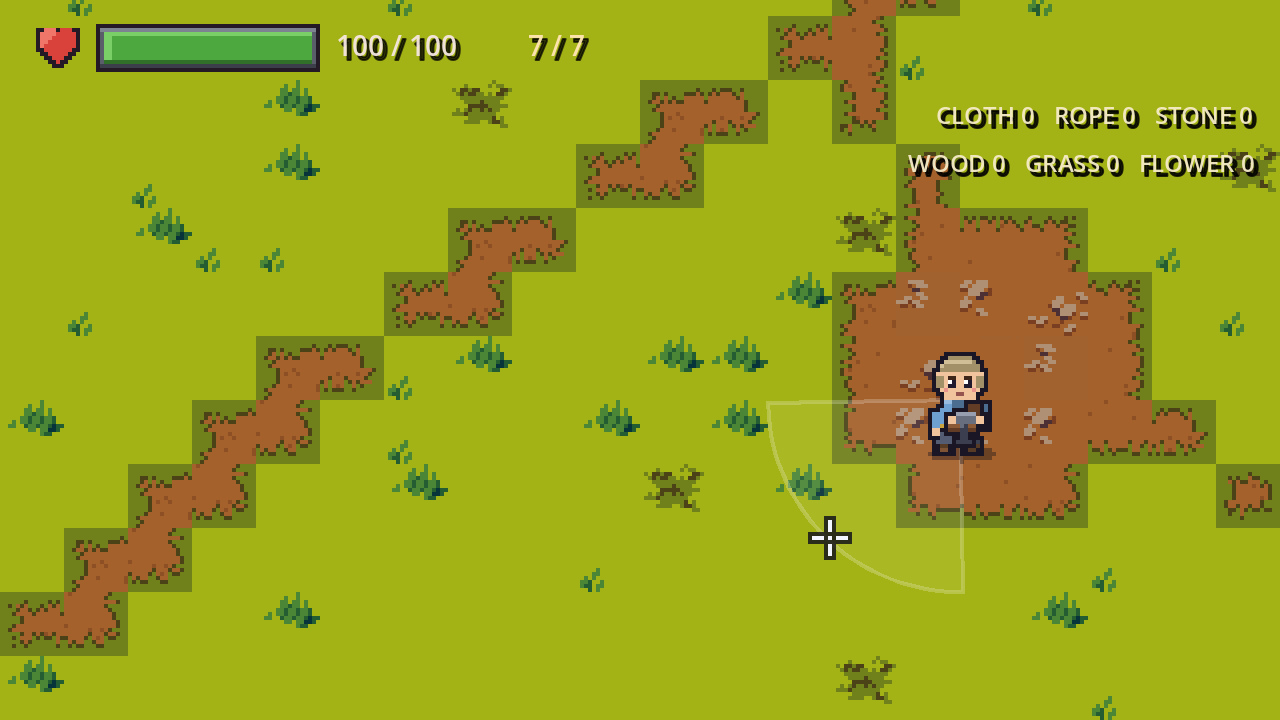
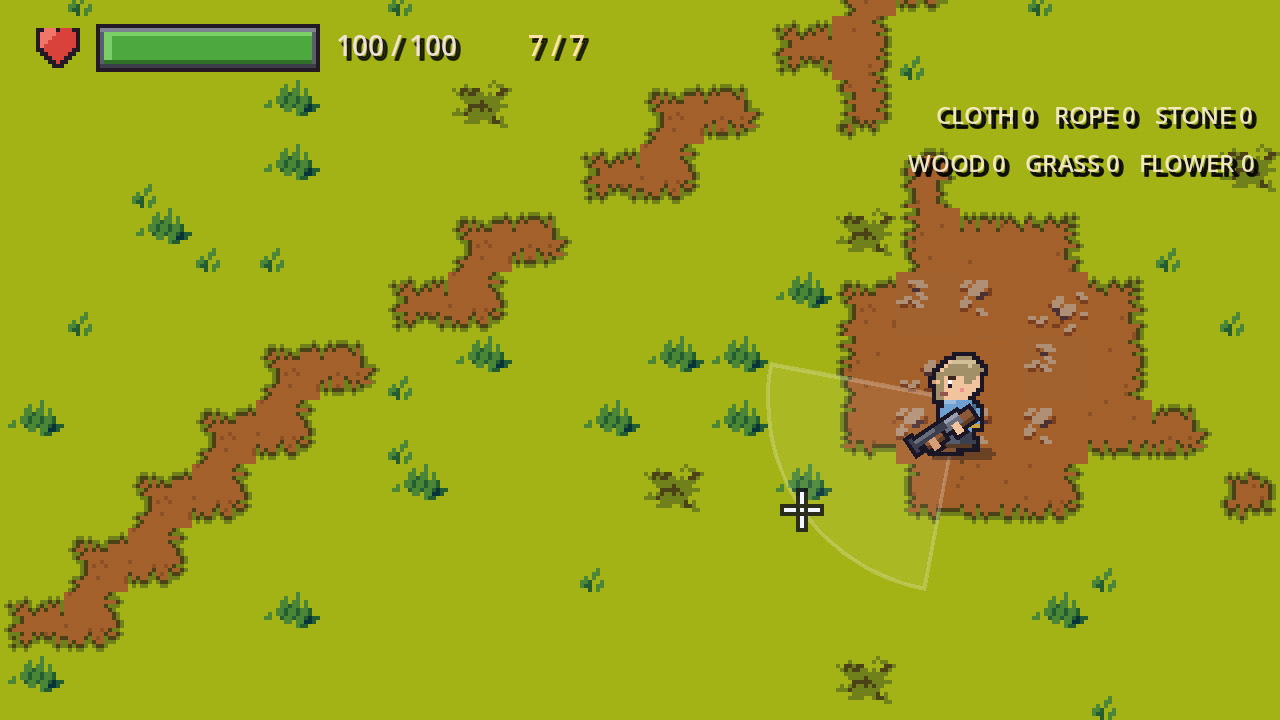
fix: 过渡块不再在贴图四周画暗边，泥土边缘没有直边阴影了

diff --git a/tools/make_forest_meadow.py b/tools/make_forest_meadow.py
@@ -107,14 +107,17 @@ def make_edge_tile(mask: int, rng: random.Random) -> Image.Image:
                 # 草地靠外亮、靠里暗一点
                 px[x, y] = GRASS + (255,)
 
-    # 草地内侧再压一条暗草边，看起来更厚
+    # 草地内侧再压一条暗草边，看起来更厚。
+    # 注意：贴图边界外的像素当作草地（不描边），否则每块贴图四周都会出现一圈直边阴影
     for y in range(16):
         for x in range(16):
             if px[x, y][:3] != GRASS:
                 continue
             for dx, dy in ((0, 1), (0, -1), (1, 0), (-1, 0)):
                 nx, ny = x + dx, y + dy
-                if 0 <= nx < 16 and 0 <= ny < 16 and px[nx, ny][:3] == GRASS:
+                if not (0 <= nx < 16 and 0 <= ny < 16):
+                    continue          # 出界 = 还是草地
+                if px[nx, ny][:3] in (GRASS, GRASS_DARK):
                     continue
                 px[x, y] = GRASS_DARK + (255,)
                 break
